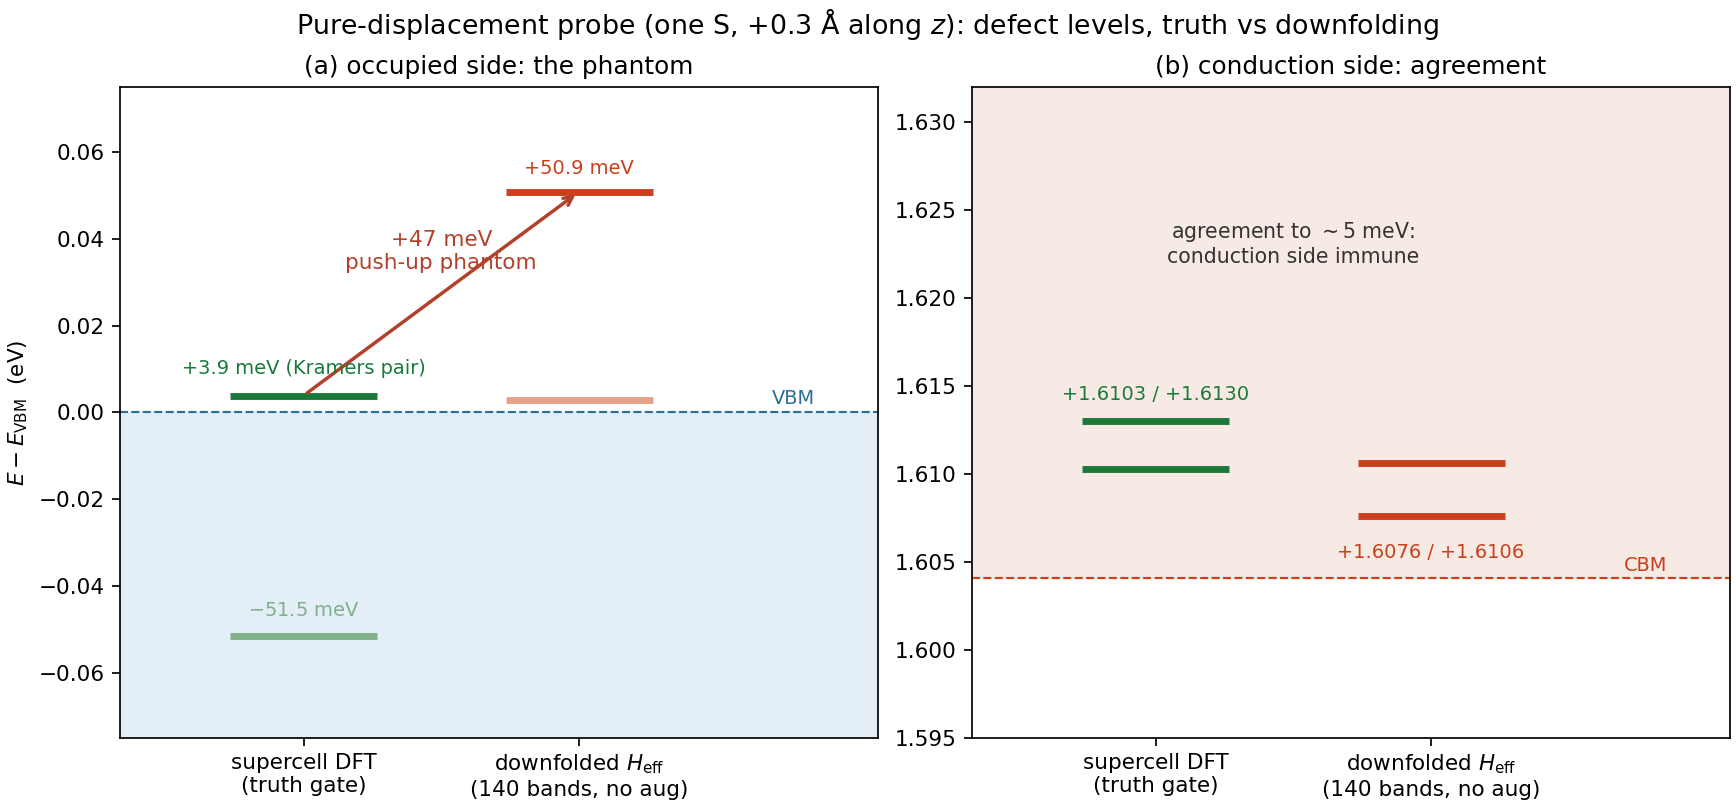
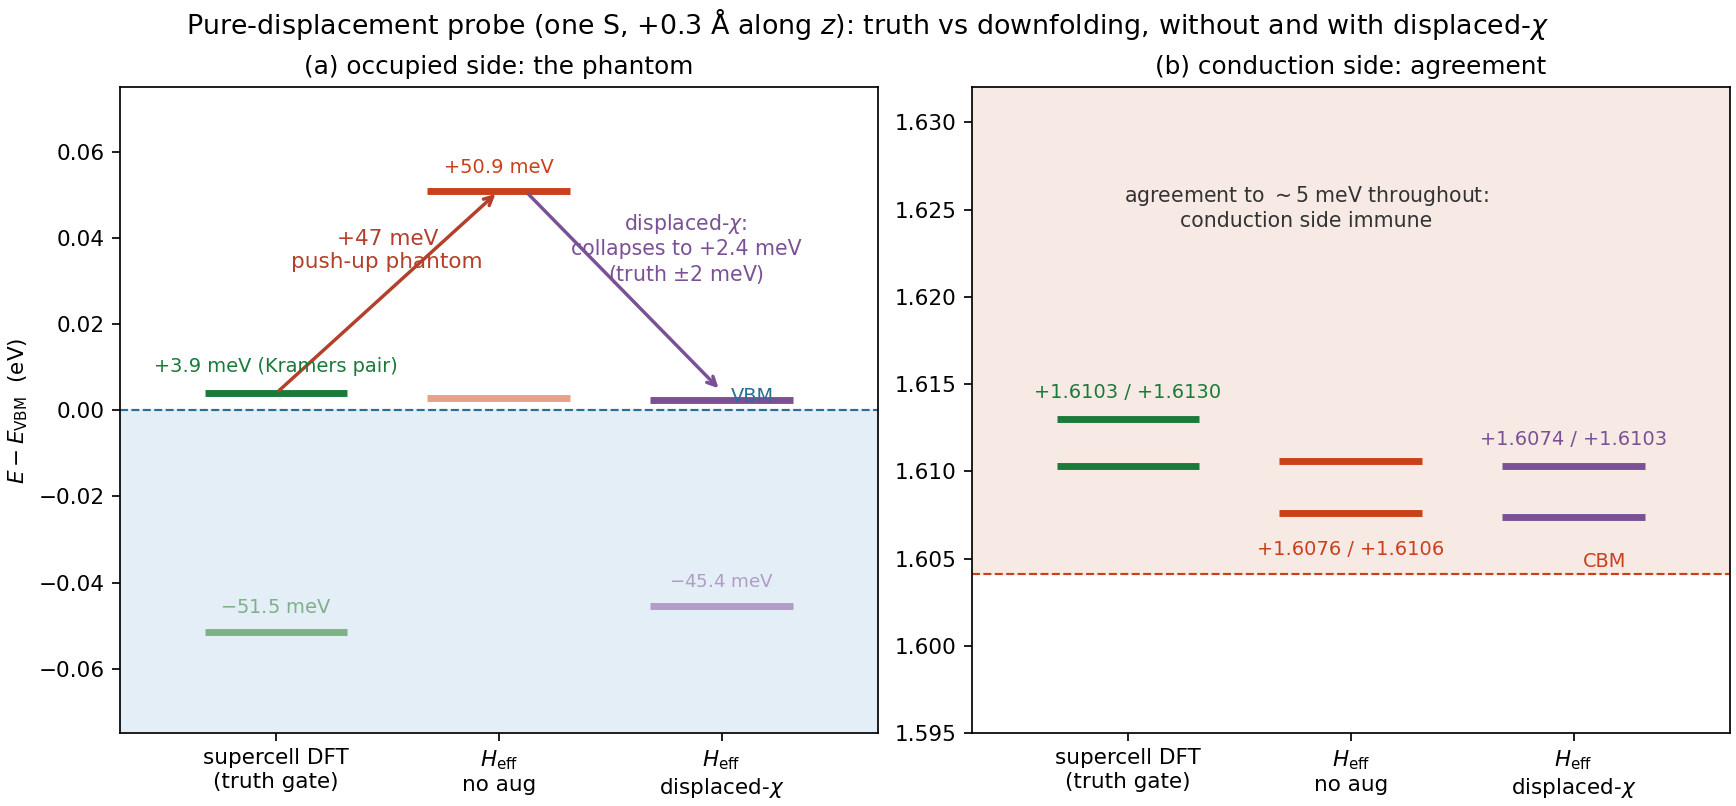
relaxation §7: displaced-χ cure implemented and calibrated (edi_v8a aug_atom) — +47 meV phantom → +2.4 meV; 3-column levels + cured spectral map

diff --git a/docs/pages/relaxation.html b/docs/pages/relaxation.html
@@ -75,11 +75,22 @@
 
 <section id="sec-disp"><h2>7&nbsp;&middot;&nbsp;A pure-displacement control probe: one S atom, +0.3&nbsp;&Aring; along $z$</h2>
 <p>Section&nbsp;5's phantom conflates two things: the <em>chemical</em> defect (foreign species / vacancy) and the <em>geometric</em> distortion (host atoms off their pristine sites). This probe isolates the second. The perturbation is a pristine 6&times;6 supercell with a single S atom displaced $+0.3$&nbsp;&Aring; along $z$ (Mo&ndash;S bonds stretched $\sim$8%; between V$_S$'s 0.07&nbsp;&Aring; cage shifts and O$_S$'s 0.53&nbsp;&Aring; sink) &mdash; no species change, no vacancy, augmentation OFF by construction (there is nothing foreign to augment with; the <em>displaced-S</em> $\chi$ is precisely the missing object). The full chain ran on Banff: FR-SOC supercell SCF, $\Delta V$ extraction (pristine cube md5-identical to the campaign original), EDI direct with the displaced-S KB projectors carried automatically by the defect cube's atom list, $T$-matrix downfolding, spectral function, supercell truth gate.</p>
-<figure><img src="../assets/sdisp_levels.png" alt="Displacement probe: truth vs downfolded levels" style="width:100%;max-width:1100px">
-<figcaption><strong>(a)</strong> The DFT truth (two alignments, $n_{\rm deep}$=40/80, agreeing to 2&nbsp;meV) says the displacement barely detaches one occupied Kramers pair: <strong>+3.9&nbsp;meV</strong> above the VBM. The downfolded $H_{\rm eff}$ (140 pristine bands, no augmentation) reports the same pair at <strong>+50.9&nbsp;meV</strong> &mdash; a <strong>+47&nbsp;meV pure-displacement phantom</strong>. <strong>(b)</strong> The conduction side is immune: CBM-edge resonances agree to $\sim$5&nbsp;meV.</figcaption></figure>
+<figure><img src="../assets/sdisp_levels.png" alt="Displacement probe: truth vs downfolded levels, without and with displaced-chi" style="width:100%;max-width:1100px">
+<figcaption><strong>(a)</strong> The DFT truth (two alignments, $n_{\rm deep}$=40/80, agreeing to 2&nbsp;meV) says the displacement barely detaches one occupied Kramers pair: <strong>+3.9&nbsp;meV</strong> above the VBM. The downfolded $H_{\rm eff}$ (140 pristine bands, no augmentation) reports the same pair at <strong>+50.9&nbsp;meV</strong> &mdash; a <strong>+47&nbsp;meV pure-displacement phantom</strong>. The third column is the cure: with $\chi$ orbitals centered on the <em>displaced</em> atom, the pair collapses to <strong>+2.4&nbsp;meV</strong>, inside the truth gate's own alignment uncertainty. <strong>(b)</strong> The conduction side is immune throughout: all three columns agree to $\sim$5&nbsp;meV.</figcaption></figure>
 <figure><img src="../assets/sdisp_spectral.png" alt="Displacement probe spectral function" style="width:100%;max-width:1300px">
 <figcaption>$A(k,\omega)$ for the displacement probe (SOC, Dyson, $\eta$=20&nbsp;meV). The host bands are intact; the displacement shows up as a weak $k$-flat resonance stripe just above the VBM &mdash; drawn at its pushed-up energy $\sim$+0.05&nbsp;eV (the truth places it at +0.004), plus a second faint stripe at $-0.15$&nbsp;eV inside the valence manifold. No deep in-gap state &mdash; matching the truth. The mid-gap stays clean.</figcaption></figure>
-<p><strong>What the probe establishes.</strong> (i) A displacement alone &mdash; zero chemistry &mdash; produces a genuine truncation error in the pristine-Bloch downfolding: the 140-band host space cannot cheaply rebuild wavefunction structure around an atom that is no longer where the basis expects it. (ii) The error is state-selective exactly as the augmentation-page law predicts: the occupied state carrying displaced-S $p$ character takes the +47&nbsp;meV hit, the delocalized conduction-edge states take $\sim$5&nbsp;meV. (iii) The magnitude ladder now has three measured rungs &mdash; one S &times; 0.3&nbsp;&Aring; &rarr; 47&nbsp;meV; V$_S$ relaxed cage (11 atoms &times; &le;0.07&nbsp;&Aring;, dangling-bond state) &rarr; 216&nbsp;meV; localization of the affected state, not displacement amplitude alone, sets the damage. (iv) It hands the future displaced-$\chi$ implementation a clean calibration target: the augmentation is correct when +50.9 collapses onto +3.9&nbsp;meV.</p>
+<p><strong>What the probe establishes.</strong> (i) A displacement alone &mdash; zero chemistry &mdash; produces a genuine truncation error in the pristine-Bloch downfolding: the 140-band host space cannot cheaply rebuild wavefunction structure around an atom that is no longer where the basis expects it. (ii) The error is state-selective exactly as the augmentation-page law predicts: the occupied state carrying displaced-S $p$ character takes the +47&nbsp;meV hit, the delocalized conduction-edge states take $\sim$5&nbsp;meV. (iii) The magnitude ladder now has three measured rungs &mdash; one S &times; 0.3&nbsp;&Aring; &rarr; 47&nbsp;meV; V$_S$ relaxed cage (11 atoms &times; &le;0.07&nbsp;&Aring;, dangling-bond state) &rarr; 216&nbsp;meV; localization of the affected state, not displacement amplitude alone, sets the damage. (iv) It handed the displaced-$\chi$ implementation a clean calibration target &mdash; met the same day, below.</p>
+<h3>The cure, implemented and calibrated: displaced-atom $\chi$ (edi_v8a)</h3>
+<p>The augmentation machinery was center-agnostic all along &mdash; the site enters only as a continuous coordinate in a one-atom structure factor. What was missing was the ability to <em>choose</em> the site: the legacy input picks the first atom of a given species, which for a displacement defect is the wrong atom. A new input, <code>aug_atom</code> (an atom index into the defect cube's own list), selects the displaced atom directly; the species, the $\chi$ radials, and &mdash; the point &mdash; the <em>displaced</em> center then all come from the defect geometry. About 30 lines (<code>edi_v8a.x</code>; the legacy path is untouched). The host S pseudopotential carried no PSWFC, so scalar-limit 3$s$/3$p$ radials were grafted from the FR pseudo's own $(2j{+}1)$-averaged KB operators (the fravg construction of the augmentation page): $\varepsilon_{3s}=-1.268$, $\varepsilon_{3p}=-0.519$&nbsp;Ry, eight spinor orbitals. The $(1-P)\chi$ Gram spectrum spans $5\times10^{-3}$&ndash;$5\times10^{-2}$ &mdash; the displaced $\chi$ overlaps the host span heavily, as expected, but all eight directions survive cleanly.</p>
+<div class="table-wrap"><table>
+<tr><th>occupied pair, rel.&nbsp;VBM</th><th>supercell DFT truth</th><th>$H_{\rm eff}$, no aug</th><th>$H_{\rm eff}$, displaced-$\chi$</th></tr>
+<tr><td>in-gap Kramers pair</td><td>+3.9&nbsp;meV ($\pm$2)</td><td>+50.9&nbsp;meV</td><td><b>+2.4&nbsp;meV</b></td></tr>
+<tr><td>second pair</td><td>$-51.5$&nbsp;meV</td><td>&mdash;</td><td>$-45.4$&nbsp;meV</td></tr>
+<tr><td>CBM-edge states</td><td>+1.6103/+1.6130</td><td>+1.6076/+1.6106</td><td>+1.6074/+1.6103</td></tr>
+</table></div>
+<figure><img src="../assets/sdisp_spectral_aug.png" alt="Displacement probe spectral function with displaced-chi" style="width:100%;max-width:1300px">
+<figcaption>The same $T$-matrix spectral function with the displaced-$\chi$ augmentation active: the $k$-flat phantom stripe at $\sim$+0.05&nbsp;eV of the previous figure is gone &mdash; the resonance now sits at its true position, unresolvable from the VBM edge at $\eta$=20&nbsp;meV. The mid-gap stays clean; nothing else moves.</figcaption></figure>
+<p>The +47&nbsp;meV error collapses to $\le$2&nbsp;meV &mdash; within the truth gate's own alignment uncertainty &mdash; while the conduction side, which was never broken, stays put. This validates the mechanism (the phantom is exactly the missing displaced-atom flexibility) and arms the machinery for its real target: multi-center augmentation (defect $\chi$ + displaced-neighbor $\chi$) against the relaxed-geometry phantoms of &sect;5, V$_S$'s 0.22&nbsp;eV foremost.</p>
 <p class="small">Ops footnote: the SCF also settled the hybrid-layout question &mdash; single-node 56&nbsp;MPI&nbsp;&times;&nbsp;4&nbsp;OMP beats flat 224&nbsp;MPI by 18% (1h13m vs 1h29m), while 2-node pw.x is 10&ndash;15&times; slower per iteration (&Gamma;-point FFT all-to-all across the fabric) and is now banned for supercell SCF; EDI itself is fine on 2 nodes (k-pair pools): 737&nbsp;s at 48 pools vs 3136&nbsp;s at 4. Artifacts: <code>~/mos2_soc/sc/Sdisp</code>, <code>~/mos2_soc/edi_disp</code> (edmat 6.5&nbsp;GB, <code>spec/spectral_path.npz</code>), figures <code>post/plot_sdisp_levels.py</code>, <code>post/plot_spectral_path.py</code>.</p>
 </section>
 
@@ -87,7 +98,7 @@
 <div class="grid cards">
 <div class="card"><strong>O$_S$: the one real change</strong><span>Relaxation (O sinks 0.53 &Aring;, Mo&ndash;O &rarr; 2.07 &Aring;, 1.48 eV) pushes the occupied O-2$p$ Kramers pair from the VBM edge into the gap: +0.036/+0.055 eV, SOC split 19 meV. The ideal-geometry "gap empty" statement is hereby amended; the CBM-edge resonance verdict survives.</span></div>
 <div class="card"><strong>V$_S$ and Se$_S$: published results stand</strong><span>Truth-level shifts of +8 meV (V$_S$ deep pair, splitting preserved) and &le;10 meV (Se$_S$). Relaxation energy predicts neither: 0.12 / 0.27 eV of relaxation produce the two smallest level responses.</span></div>
-<div class="card"><strong>The 0.22 eV phantom</strong><span>The truncated-Bloch $H_{\rm eff}$ inflates its variational push-up on distorted geometries (V$_S$ overshoot +45 &rarr; +255 meV; no augmentation orbital exists for a vacancy to adapt with). The supercell truth gate &mdash; a standing rule of this site &mdash; is what kept the phantom out of the conclusions.</span></div>
+<div class="card"><strong>The 0.22 eV phantom &mdash; and its cure</strong><span>The truncated-Bloch $H_{\rm eff}$ inflates its variational push-up on distorted geometries (V$_S$ overshoot +45 &rarr; +255 meV). The pure-displacement probe (&sect;7) isolated the mechanism and the displaced-$\chi$ augmentation (edi_v8a, <code>aug_atom</code>) now cures it: +47 meV &rarr; &le;2 meV on the calibration case. Multi-center aug against the relaxed V$_S$/O$_S$ phantoms is the armed next step.</span></div>
 <div class="card"><strong>Ops</strong><span>Fixed-cell constrained relax converges in &le;16 BFGS steps; the pristine-cube md5 doubles as a pipeline integrity gate; Banff single-node SOC EDI exists at exactly one layout (4&times;56, 98.5% of memory), Anvil highmem remains the comfortable single-node home.</span></div>
 </div>
 <p class="small">Artifacts: relax inputs/outputs <code>~/mos2_soc/relax_{OS,VS,SeS}/</code>; relaxed SOC SCFs <code>sc_rlx/</code>; relaxed cubes + EDI bins + spectra <code>edi_rlx/</code> (Banff) and <code>mos2_rlx/</code> (Anvil); truth gate <code>edi_rlx/truth_levels.json</code> (same-script, both geometries); figures <code>post/plot_rlx_levels.py</code>, <code>post/plot_rlx_spectral.py</code>. Ideal-geometry baselines are the campaign originals throughout.</p>

diff --git a/docs/index.html b/docs/index.html
@@ -35,7 +35,7 @@
 <tr><td><strong>WSe$_2$+SOC campaign (second material)</strong></td><td>Result</td><td><span class="badge prod">Production</span></td><td>Full spinor pipeline on WSe$_2$ (75 Ry, W-4f semicore): <strong>466 meV valence splitting</strong> (3.1$\times$ MoS$_2$), V$_{\rm Se}$ pair splitting converging 73$\to$148$\to$truth 163 meV under a 280-band boost (monotonic Ritz descent), S$_{\rm Se}$ golden, O$_{\rm Se}$ honestly basis-limited at 75 Ry. Mobility (per-state $\eta\to0$, K1-gated): <strong>V$_{\rm Se}$ holes 70 despite the giant locking &mdash; an $a_1$ level pinned at the VBM beats valley protection</strong> (13$\times$ below V$_S$@MoS$_2$); S$_{\rm Se}$ h/e asymmetry $\times$33 from a CBM$+3$ meV electron edge resonance. Four spectral maps incl. the resolved 38.4 meV conduction splitting.</td><td><a href="pages/wse2.html">WSe$_2$ page &rarr;</a></td></tr>
 <tr><td><strong>Self-energy $\leftrightarrow$ spectral function (Dyson loop)</strong></td><td>Validation</td><td><span class="badge ok">Consistent</span></td><td>The stored Kubo $\Sigma(k,\omega)$ field turned back into a spectral function via $A=-\frac1\pi\mathrm{Im}[\omega-\varepsilon-\Sigma]^{-1}$ and checked against the direct <code>spectral_path</code> map. Features reproduce (QP parabola, avoided crossing, the $1.80$ eV resonance line); the $70$ meV QP-peak offset is the <strong>Dyson-vs-bubble pole convention</strong> &mdash; independently re-deriving the O$_S$ conduction pull-down. State reconstruction exact to $10^{-4}$ meV; login-node post-processing, no new solve. <strong>&sect;7 adds the full window</strong> ($-1.25$ to $+2.45$ eV, whole $\Gamma$&ndash;K&ndash;M&ndash;$\Gamma$): V$_S$&rsquo;s self-energy is dominated by <strong>two $k$-flat resonance ridges at $+0.306$ and $+1.214$ eV</strong>, <em>both below the CBM zoom window</em> &mdash; inside the zoom the peak $-\mathrm{Im}\,\Sigma$ is 8 meV against 397 meV over the full range, a $50\times$ blind spot. The $+1.214$ ridge re-derives the $e$-doublet from a third direction (pole of the scattering vertex, not an eigenvalue), and $\mathrm{Re}\,\Sigma$ crosses zero at both ridges with no KK transform anywhere &mdash; causality as an output.</td><td><a href="pages/sigma_spectral.html">Σ&harr;A page &rarr;</a></td></tr>
 <tr><td><strong>Anvil port: the whole chain on one node in 34 min</strong></td><td>Method / perf</td><td><span class="badge prod">Production</span></td><td>The MoS$_2$+SOC O$_S$ pipeline rebuilt on Anvil with ifx&nbsp;+&nbsp;MKL and made to fit the <code>highmem</code> one-node QOS cap (48 pools $\times$ 3 $k_i$). <strong>EDI kernel 19.4 $\to$ 0.82 s/pair (23.7$\times$)</strong> &mdash; P6 GEMM gives 4.7$\times$, threaded MKL the rest, while the hand-written OpenMP region contributes <em>zero</em>. Post-processing rewritten (block-diagonal $G_0$, no explicit inverse, multiprocess $\omega$): <strong>2760 $\to$ 221 ms/$\omega$</strong>. Gates: $M$ agrees cross-cluster to $1.1\times10^{-13}$, $A$ reproduced to $4.3\times10^{-16}$ over 264 836 points. Includes the new full O$_S$ panorama and a one-line Banff fix worth $\sim$4$\times$ (752 of 896 cores were idle).</td><td><a href="pages/anvil.html">Anvil page &rarr;</a></td></tr>
-<tr><td><strong>Geometry relaxation (chemical-shell arm)</strong></td><td>Result</td><td><span class="badge prod">Production</span></td><td>Constrained BFGS (defect + Mo triangle + full S cage; 11/10/11 atoms, strictly fixed cell) for all three MoS$_2$+SOC defects, full chain rerun at relaxed geometry with the supercell truth gate at both. <strong>Physics: O$_S$ changes qualitatively</strong> &mdash; the occupied O-2$p$ pair enters the gap (+0.036/+0.055 eV, SOC split 19 meV) as O sinks 0.53 &Aring; (Mo&ndash;O &rarr; 2.07 &Aring;); V$_S$ (+8 meV) and Se$_S$ (&le;10 meV) stand. <strong>Methods: the truncated-Bloch $H_{\rm eff}$ inflates its push-up on distorted geometries</strong> (V$_S$ overshoot +45 &rarr; +255 meV &mdash; a 0.22 eV phantom shift caught by the truth gate; vacancies have no $\tilde\chi$ to adapt with). Bond lengths land on parent-compound values unprompted (Mo&ndash;O 2.07, Mo&ndash;Se 2.54 &Aring;). <strong>Pure-displacement control probe:</strong> one S moved +0.3 &Aring; (no chemistry, no augmentation) &mdash; DFT truth detaches an occupied pair by only +3.9 meV, the downfolding reports +50.9 meV: a <strong>+47 meV displacement-only phantom</strong>, isolating the geometric half of the relaxed-geometry error and handing the future displaced-$\chi$ implementation its calibration target; conduction side agrees to ~5 meV.</td><td><a href="pages/relaxation.html">Relaxation page &rarr;</a></td></tr>
+<tr><td><strong>Geometry relaxation (chemical-shell arm)</strong></td><td>Result</td><td><span class="badge prod">Production</span></td><td>Constrained BFGS (defect + Mo triangle + full S cage; 11/10/11 atoms, strictly fixed cell) for all three MoS$_2$+SOC defects, full chain rerun at relaxed geometry with the supercell truth gate at both. <strong>Physics: O$_S$ changes qualitatively</strong> &mdash; the occupied O-2$p$ pair enters the gap (+0.036/+0.055 eV, SOC split 19 meV) as O sinks 0.53 &Aring; (Mo&ndash;O &rarr; 2.07 &Aring;); V$_S$ (+8 meV) and Se$_S$ (&le;10 meV) stand. <strong>Methods: the truncated-Bloch $H_{\rm eff}$ inflates its push-up on distorted geometries</strong> (V$_S$ overshoot +45 &rarr; +255 meV &mdash; a 0.22 eV phantom shift caught by the truth gate; vacancies have no $\tilde\chi$ to adapt with). Bond lengths land on parent-compound values unprompted (Mo&ndash;O 2.07, Mo&ndash;Se 2.54 &Aring;). <strong>Pure-displacement control probe:</strong> one S moved +0.3 &Aring; (no chemistry, no augmentation) &mdash; DFT truth detaches an occupied pair by only +3.9 meV, the downfolding reports +50.9 meV: a <strong>+47 meV displacement-only phantom</strong>, isolating the geometric half of the relaxed-geometry error; conduction side agrees to ~5 meV. <strong>Cure implemented and calibrated (edi_v8a):</strong> displaced-atom $\chi$ via a new <code>aug_atom</code> input collapses the phantom to <strong>+2.4 meV vs truth +3.9&plusmn;2</strong> (all 8 (1&minus;P)$\chi$ directions healthy), and the spectral-function phantom stripe vanishes &mdash; the machinery is armed for multi-center augmentation against the relaxed-geometry phantoms.</td><td><a href="pages/relaxation.html">Relaxation page &rarr;</a></td></tr>
 <tr><td><strong>All-electron benchmark (ELK &amp; FLEUR, FP-LAPW)</strong></td><td>Validation</td><td><span class="badge ok">Endorsed</span></td><td>The one untested layer &mdash; frozen-core + pseudization (shared by NC and PAW) &mdash; audited against a fully self-consistent Dirac-core LAPW calculation at bit-identical geometry/PBE. <strong>Conduction SOC splitting at K: 3.0 vs 3.1 meV</strong> (a near-cancellation, the most core-sensitive probe available); valence splitting 149.0 vs 147.2 meV; semicore bands to 4&ndash;68 meV over a 60 eV window; ELK's missing 2D Coulomb cutoff measured to contribute 0.00 meV (QE control). Band-structure figure shows the true core states &mdash; with their own SOC splittings (Mo 3p: 17.5 eV) &mdash; that the pseudopotential freezes away. 54 s per SCF: the primitive-cell rung of an all-electron audit is effectively free. <strong>High-energy audit (160 states, to +31 eV):</strong> bound states agree at 10&ndash;30 meV all the way; the deviation is a <em>step function at the vacuum level</em> (quasi-continuum boundary/z-quantization, shared by any slab code pair) &mdash; not a pseudization decay. The rest space's bound part is endorsed; its continuum part enters only via weak couplings. <strong>FLEUR cross-check:</strong> a second, independent FLAPW code run on the identical 229-point path agrees with QE to a full-path median of 5 meV (34 bound bands; window max 25 meV) and with ELK to 5 meV on the gap &mdash; the two AE codes bracket QE from below. Includes a documented k-point trap: FLEUR's shifted SCF mesh does not contain K, and nearest-point extraction fakes a +0.13 eV "discrepancy" that survives every convergence knob.</td><td><a href="pages/elk.html">All-electron page &rarr;</a></td></tr>
 </tbody></table></div>
 <p class="small">Legend: <span class="badge ok">Complete</span> done &nbsp; <span class="badge prod">Production / key</span> headline &nbsp; <span class="badge warn">Caveat</span>. This is the <em>explicit / EDI-direct</em> companion to the <a href="https://rjguo1208.github.io/claude-sternheimer/">Sternheimer downfolding site</a>.</p></section>
